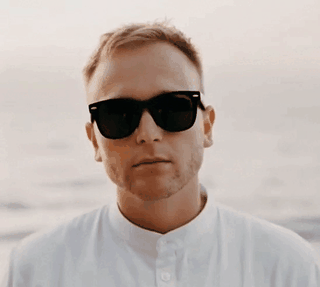
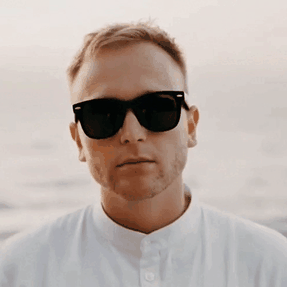
Аватарка: плавная смена темы без тормозов и обрезки
- Все ассеты приведены к квадрату 287×287 (центр по лицу) — в круг
  входит идеально, без прыжков кадрирования и полоски снизу.
- Гифки грузятся один раз в память (Blob), при смене темы создаётся
  свежий object-URL: играют с первого кадра, мгновенно и без повторной
  загрузки по сети. Уходят тормоза и построчная отрисовка.
- Гифки переоптимизированы: 2.1 → 1.4 МБ.

diff --git a/components/avatar-toggle.tsx b/components/avatar-toggle.tsx
@@ -6,8 +6,8 @@ import { cn } from "@/lib/utils";
 
 /**
  * Длительность гиф-анимации (снимает/надевает очки) в мс.
- * Гифки оптимизированы: ~1.5 с, проигрываются один раз и держат последний
- * кадр — свап на статичное фото происходит здесь с небольшим запасом.
+ * Гифки ~1.44 с, проигрываются один раз (loop=1) и держат последний кадр —
+ * свап на статичное фото происходит здесь с небольшим запасом.
  */
 const ANIM_MS = 1600;
 
@@ -34,35 +34,80 @@ export function AvatarToggle({
   const { resolvedTheme } = useTheme();
   const [mounted, setMounted] = React.useState(false);
   const [phase, setPhase] = React.useState<Phase>("idle");
-  const [animKey, setAnimKey] = React.useState(0);
+  const [gifUrl, setGifUrl] = React.useState<string | null>(null);
   const [broken, setBroken] = React.useState(false);
-  const prevTheme = React.useRef<string | undefined>(undefined);
 
+  const prevTheme = React.useRef<string | undefined>(undefined);
+  const blobs = React.useRef<{ toDark?: Blob; toLight?: Blob }>({});
+  const objectUrl = React.useRef<string | null>(null);
+
+  // Один раз грузим гифки целиком в память (Blob). При смене темы создаём
+  // свежий object-URL из этого блоба: гифка играет с первого кадра, рисуется
+  // мгновенно (она уже в памяти) и НИКОГДА не качается по сети повторно —
+  // отсюда уходят и тормоза, и построчная «полоска» недогруженного кадра.
   React.useEffect(() => {
     setMounted(true);
     prevTheme.current = resolvedTheme;
+    let alive = true;
+
+    Promise.all([
+      fetch(ASSETS.toDark).then((r) => r.blob()),
+      fetch(ASSETS.toLight).then((r) => r.blob()),
+    ])
+      .then(([d, l]) => {
+        if (!alive) return;
+        blobs.current.toDark = d;
+        blobs.current.toLight = l;
+      })
+      .catch(() => {});
+
+    // Статичные кадры тоже прогреваем в кэш браузера.
+    [ASSETS.light, ASSETS.dark].forEach((s) => {
+      const i = new Image();
+      i.src = s;
+    });
+
+    return () => {
+      alive = false;
+      if (objectUrl.current) URL.revokeObjectURL(objectUrl.current);
+    };
     // eslint-disable-next-line react-hooks/exhaustive-deps
   }, []);
 
-  // Следим за сменой темы (от любой кнопки) и проигрываем гифку один раз.
+  // Смена темы (от любой кнопки) → проигрываем нужную гифку из памяти.
   React.useEffect(() => {
     if (!mounted || !resolvedTheme) return;
-    if (prevTheme.current && prevTheme.current !== resolvedTheme) {
-      setPhase(resolvedTheme === "dark" ? "to-dark" : "to-light");
-      setAnimKey((k) => k + 1); // cache-bust, чтобы гифка играла с первого кадра
+    if (!prevTheme.current || prevTheme.current === resolvedTheme) {
       prevTheme.current = resolvedTheme;
-      const t = setTimeout(() => setPhase("idle"), ANIM_MS);
-      return () => clearTimeout(t);
+      return;
     }
+
+    const toDark = resolvedTheme === "dark";
     prevTheme.current = resolvedTheme;
+
+    const blob = toDark ? blobs.current.toDark : blobs.current.toLight;
+    if (objectUrl.current) URL.revokeObjectURL(objectUrl.current);
+
+    if (blob) {
+      objectUrl.current = URL.createObjectURL(blob);
+      setGifUrl(objectUrl.current);
+    } else {
+      // Блоб ещё не догрузился — фолбэк на прямой URL с cache-bust,
+      // чтобы гифка хотя бы проиграла с первого кадра.
+      objectUrl.current = null;
+      const direct = toDark ? ASSETS.toDark : ASSETS.toLight;
+      setGifUrl(`${direct}?k=${Date.now()}`);
+    }
+
+    setPhase(toDark ? "to-dark" : "to-light");
+    const t = setTimeout(() => setPhase("idle"), ANIM_MS);
+    return () => clearTimeout(t);
   }, [resolvedTheme, mounted]);
 
   const isDark = mounted ? resolvedTheme === "dark" : true;
 
-  let src: string;
-  if (phase === "to-dark") src = `${ASSETS.toDark}?k=${animKey}`;
-  else if (phase === "to-light") src = `${ASSETS.toLight}?k=${animKey}`;
-  else src = isDark ? ASSETS.dark : ASSETS.light;
+  const src =
+    phase !== "idle" && gifUrl ? gifUrl : isDark ? ASSETS.dark : ASSETS.light;
 
   const ring =
     "ring-2 ring-neutral-200 dark:ring-neutral-800 shadow-lg shadow-black/5";
@@ -92,6 +137,7 @@ export function AvatarToggle({
       alt="Аватар Алексея"
       width={size}
       height={size}
+      draggable={false}
       onError={() => setBroken(true)}
       style={{ width: size, height: size }}
       className={cn("rounded-full object-cover", ring, className)}
